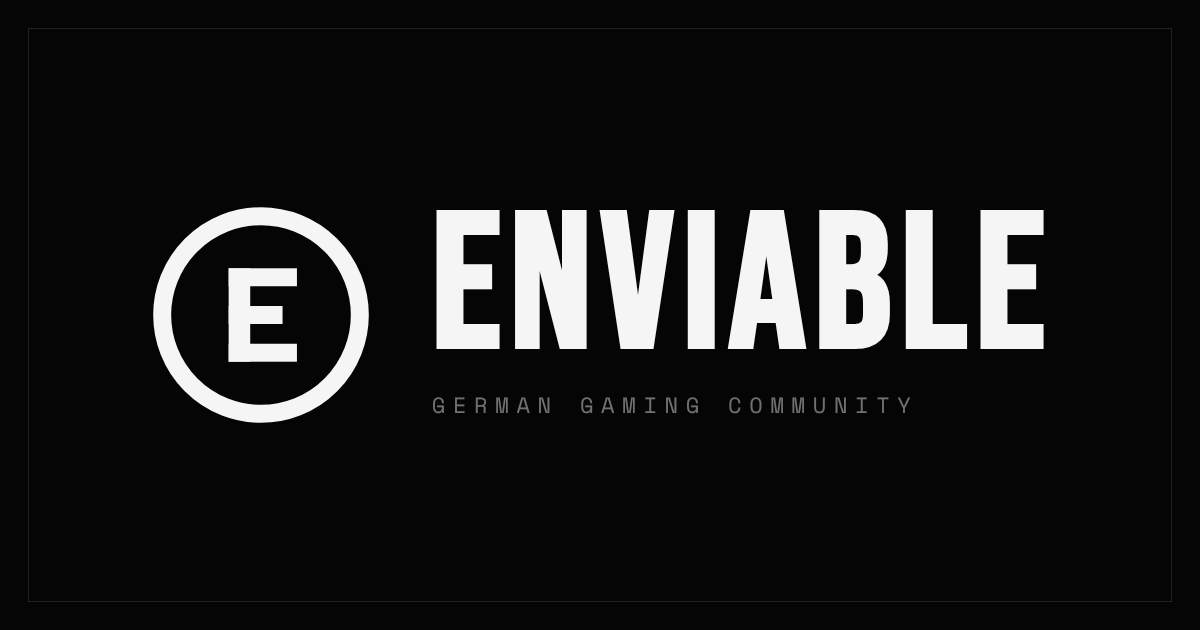
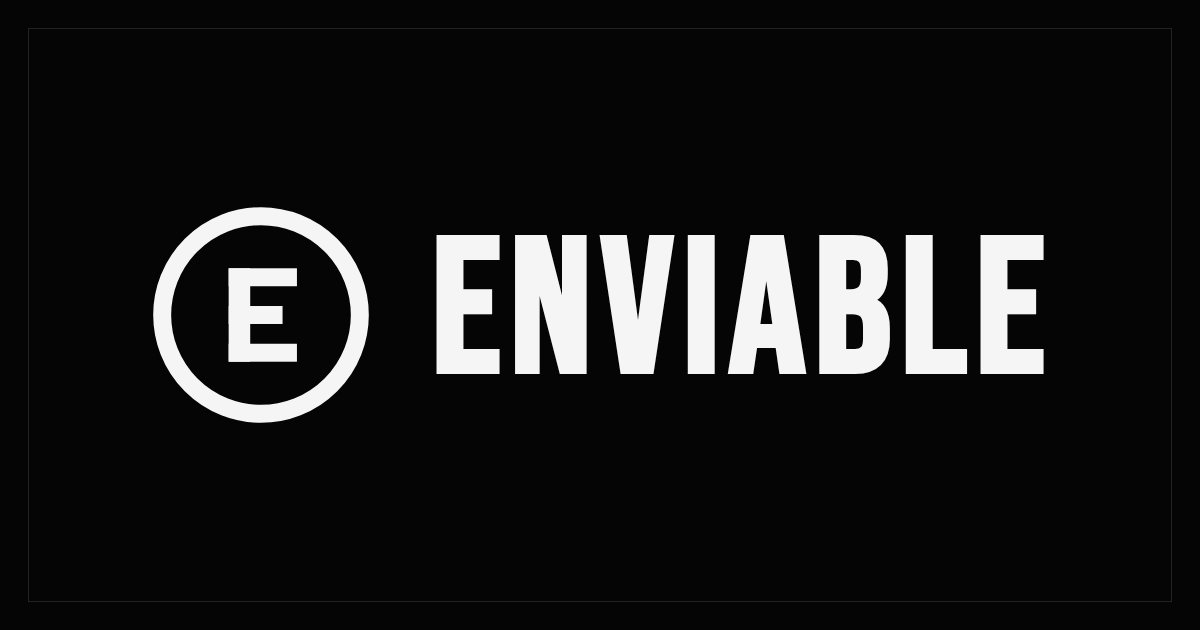
Link preview without subtitle
Claude-Session: https://claude.ai/code/session_019LLp9ve4sx9DMv7Rb3MSgu

Changed region(s): [[0.3392, 0.3317, 0.8942, 0.6032], [0.3392, 0.6333, 0.74, 0.6635]]

diff --git a/index.html b/index.html
@@ -13,14 +13,14 @@
   <meta property="og:type" content="website">
   <meta property="og:site_name" content="Enviable">
   <meta property="og:title" content="Enviable">
-  <meta property="og:description" content="German Gaming Community – join the Discord.">
+  <meta property="og:description" content="Join the Discord.">
   <meta property="og:url" content="https://enviable.at/">
-  <meta property="og:image" content="https://enviable.at/og-image.png">
+  <meta property="og:image" content="https://enviable.at/og-image.png?v=2">
   <meta property="og:image:width" content="1200">
   <meta property="og:image:height" content="630">
   <meta property="og:image:alt" content="Enviable logo">
   <meta name="twitter:card" content="summary_large_image">
-  <meta name="twitter:image" content="https://enviable.at/og-image.png">
+  <meta name="twitter:image" content="https://enviable.at/og-image.png?v=2">
   <link href="https://fonts.googleapis.com/css2?family=Bebas+Neue&family=Space+Mono:wght@400;700&display=swap" rel="stylesheet">
   <style>
     *, *::before, *::after { margin: 0; padding: 0; box-sizing: border-box; }
